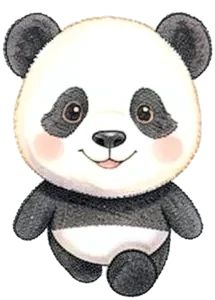
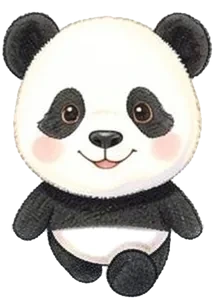
Miniroom panda: match walking frames' face and black fur to the standing frame

diff --git a/public/js/views.js b/public/js/views.js
@@ -35,7 +35,7 @@ const MR_BODY = {
   '🐰': {"w": 184, "h": 300, "img": {"f0": "img/room/c-1f430-f0.webp?v=1126c", "fa": "img/room/c-1f430-fa.webp?v=1126c", "fb": "img/room/c-1f430-fb.webp?v=1126c", "s0": "img/room/c-1f430-s0.webp?v=1126c", "sa": "img/room/c-1f430-sa.webp?v=1126c", "sb": "img/room/c-1f430-sb.webp?v=1126c", "sc": "img/room/c-1f430-sc.webp?v=1126c", "b0": "img/room/c-1f430-b0.webp?v=1126c", "ba": "img/room/c-1f430-ba.webp?v=1126c", "bb": "img/room/c-1f430-bb.webp?v=1126c"}, "fit": [0.512, 0.325, 0.845, 0.514, 0.664], "head": {"front": [0.512, 0.845], "side": [0.546, 0.849], "back": [0.514, 0.841]}, "eyes": [0.314, 0.511, 0.693, 0.51, 0.036], "hand": {"front": [0.932, 0.81], "side": [0.707, 0.81], "back": [0.902, 0.81]}},
   '🐻': {"w": 223, "h": 300, "img": {"f0": "img/room/c-1f43b-f0.webp?v=1126c", "fa": "img/room/c-1f43b-fa.webp?v=1126c", "fb": "img/room/c-1f43b-fb.webp?v=1126c", "s0": "img/room/c-1f43b-s0.webp?v=1126c", "sa": "img/room/c-1f43b-sa.webp?v=1126c", "sb": "img/room/c-1f43b-sb.webp?v=1126c", "sc": "img/room/c-1f43b-sc.webp?v=1126c", "b0": "img/room/c-1f43b-b0.webp?v=1126c", "ba": "img/room/c-1f43b-ba.webp?v=1126c", "bb": "img/room/c-1f43b-bb.webp?v=1126c"}, "fit": [0.479, 0.001, 0.91, 0.374, 0.654], "head": {"front": [0.479, 0.91], "side": [0.484, 0.907], "back": [0.486, 0.896]}, "eyes": [0.311, 0.383, 0.694, 0.379, 0.048], "hand": {"front": [0.918, 0.769], "side": [0.687, 0.769], "back": [0.885, 0.769]}},
   '🦊': {"w": 238, "h": 300, "img": {"f0": "img/room/c-1f98a-f0.webp?v=1126c", "fa": "img/room/c-1f98a-fa.webp?v=1126c", "fb": "img/room/c-1f98a-fb.webp?v=1126c", "s0": "img/room/c-1f98a-s0.webp?v=1126c", "sa": "img/room/c-1f98a-sa.webp?v=1126c", "sb": "img/room/c-1f98a-sb.webp?v=1126c", "sc": "img/room/c-1f98a-sc.webp?v=1126c", "b0": "img/room/c-1f98a-b0.webp?v=1126c", "ba": "img/room/c-1f98a-ba.webp?v=1126c", "bb": "img/room/c-1f98a-bb.webp?v=1126c"}, "fit": [0.529, 0.144, 0.827, 0.45, 0.68], "head": {"front": [0.529, 0.827], "side": [0.613, 0.743], "back": [0.529, 0.827]}, "eyes": [0.386, 0.446, 0.685, 0.44, 0.029], "hand": {"front": [0.874, 0.78], "side": [0.664, 0.78], "back": [0.841, 0.78]}},
-  '🐼': {"w": 229, "h": 300, "img": {"f0": "img/room/c-1f43c-f0.webp?v=1126c", "fa": "img/room/c-1f43c-fa.webp?v=1126f", "fb": "img/room/c-1f43c-fb.webp?v=1126f", "s0": "img/room/c-1f43c-s0.webp?v=1126c", "sa": "img/room/c-1f43c-sa.webp?v=1126c", "sb": "img/room/c-1f43c-sb.webp?v=1126d", "sc": "img/room/c-1f43c-sc.webp?v=1126d", "s1": "img/room/c-1f43c-s1.webp?v=1126e", "s2": "img/room/c-1f43c-s2.webp?v=1126e", "s3": "img/room/c-1f43c-s3.webp?v=1126e", "s4": "img/room/c-1f43c-s4.webp?v=1126e", "s5": "img/room/c-1f43c-s5.webp?v=1126e", "s6": "img/room/c-1f43c-s6.webp?v=1126e", "s7": "img/room/c-1f43c-s7.webp?v=1126e", "s8": "img/room/c-1f43c-s8.webp?v=1126e", "b0": "img/room/c-1f43c-b0.webp?v=1126c", "ba": "img/room/c-1f43c-ba.webp?v=1126c", "bb": "img/room/c-1f43c-bb.webp?v=1126c"}, "fit": [0.519, 0.041, 0.879, 0.376, 0.621], "head": {"front": [0.519, 0.879], "side": [0.539, 0.879], "back": [0.521, 0.876]}, "eyes": [0.351, 0.377, 0.672, 0.377, 0.04], "hand": {"front": [0.932, 0.759], "side": [0.69, 0.759], "back": [0.899, 0.759]}},
+  '🐼': {"w": 229, "h": 300, "img": {"f0": "img/room/c-1f43c-f0.webp?v=1126c", "fa": "img/room/c-1f43c-fa.webp?v=1127a", "fb": "img/room/c-1f43c-fb.webp?v=1127a", "s0": "img/room/c-1f43c-s0.webp?v=1126c", "sa": "img/room/c-1f43c-sa.webp?v=1126c", "sb": "img/room/c-1f43c-sb.webp?v=1126d", "sc": "img/room/c-1f43c-sc.webp?v=1126d", "s1": "img/room/c-1f43c-s1.webp?v=1126e", "s2": "img/room/c-1f43c-s2.webp?v=1126e", "s3": "img/room/c-1f43c-s3.webp?v=1126e", "s4": "img/room/c-1f43c-s4.webp?v=1126e", "s5": "img/room/c-1f43c-s5.webp?v=1126e", "s6": "img/room/c-1f43c-s6.webp?v=1126e", "s7": "img/room/c-1f43c-s7.webp?v=1126e", "s8": "img/room/c-1f43c-s8.webp?v=1126e", "b0": "img/room/c-1f43c-b0.webp?v=1126c", "ba": "img/room/c-1f43c-ba.webp?v=1126c", "bb": "img/room/c-1f43c-bb.webp?v=1126c"}, "fit": [0.519, 0.041, 0.879, 0.376, 0.621], "head": {"front": [0.519, 0.879], "side": [0.539, 0.879], "back": [0.521, 0.876]}, "eyes": [0.351, 0.377, 0.672, 0.377, 0.04], "hand": {"front": [0.932, 0.759], "side": [0.69, 0.759], "back": [0.899, 0.759]}},
   '🐯': {"w": 237, "h": 300, "img": {"f0": "img/room/c-1f42f-f0.webp?v=1126c", "fa": "img/room/c-1f42f-fa.webp?v=1126c", "fb": "img/room/c-1f42f-fb.webp?v=1126c", "s0": "img/room/c-1f42f-s0.webp?v=1126c", "sa": "img/room/c-1f42f-sa.webp?v=1126c", "sb": "img/room/c-1f42f-sb.webp?v=1126c", "sc": "img/room/c-1f42f-sc.webp?v=1126c", "b0": "img/room/c-1f42f-b0.webp?v=1126c", "ba": "img/room/c-1f42f-ba.webp?v=1126c", "bb": "img/room/c-1f42f-bb.webp?v=1126c"}, "fit": [0.514, 0.031, 0.924, 0.361, 0.657], "head": {"front": [0.514, 0.924], "side": [0.498, 0.86], "back": [0.517, 0.924]}, "eyes": [0.354, 0.368, 0.685, 0.361, 0.052], "hand": {"front": [0.885, 0.782], "side": [0.684, 0.782], "back": [0.854, 0.782]}},
   '🐨': {"w": 276, "h": 300, "img": {"f0": "img/room/c-1f428-f0.webp?v=1126c", "fa": "img/room/c-1f428-fa.webp?v=1126c", "fb": "img/room/c-1f428-fb.webp?v=1126c", "s0": "img/room/c-1f428-s0.webp?v=1126c", "sa": "img/room/c-1f428-sa.webp?v=1126c", "sb": "img/room/c-1f428-sb.webp?v=1126c", "sc": "img/room/c-1f428-sc.webp?v=1126c", "b0": "img/room/c-1f428-b0.webp?v=1126c", "ba": "img/room/c-1f428-ba.webp?v=1126c", "bb": "img/room/c-1f428-bb.webp?v=1126c"}, "fit": [0.495, 0.079, 0.619, 0.4, 0.628], "head": {"front": [0.495, 0.619], "side": [0.629, 0.543], "back": [0.495, 0.615]}, "eyes": [0.351, 0.403, 0.637, 0.401, 0.027], "hand": {"front": [0.774, 0.791], "side": [0.573, 0.791], "back": [0.732, 0.791]}},
   '🐸': {"w": 316, "h": 300, "img": {"f0": "img/room/c-1f438-f0.webp?v=1126c", "fa": "img/room/c-1f438-fa.webp?v=1126c", "fb": "img/room/c-1f438-fb.webp?v=1126c", "s0": "img/room/c-1f438-s0.webp?v=1126c", "sa": "img/room/c-1f438-sa.webp?v=1126c", "sb": "img/room/c-1f438-sb.webp?v=1126c", "sc": "img/room/c-1f438-sc.webp?v=1126c", "b0": "img/room/c-1f438-b0.webp?v=1126c", "ba": "img/room/c-1f438-ba.webp?v=1126c", "bb": "img/room/c-1f438-bb.webp?v=1126c"}, "fit": [0.495, -0.102, 0.635, 0.132, 0.645], "head": {"front": [0.495, 0.635], "side": [0.53, 0.267], "back": [0.482, 0.672]}, "eyes": [0.281, 0.114, 0.714, 0.114, 0.06], "hand": {"front": [0.839, 0.754], "side": [0.613, 0.754], "back": [0.794, 0.754]}},
